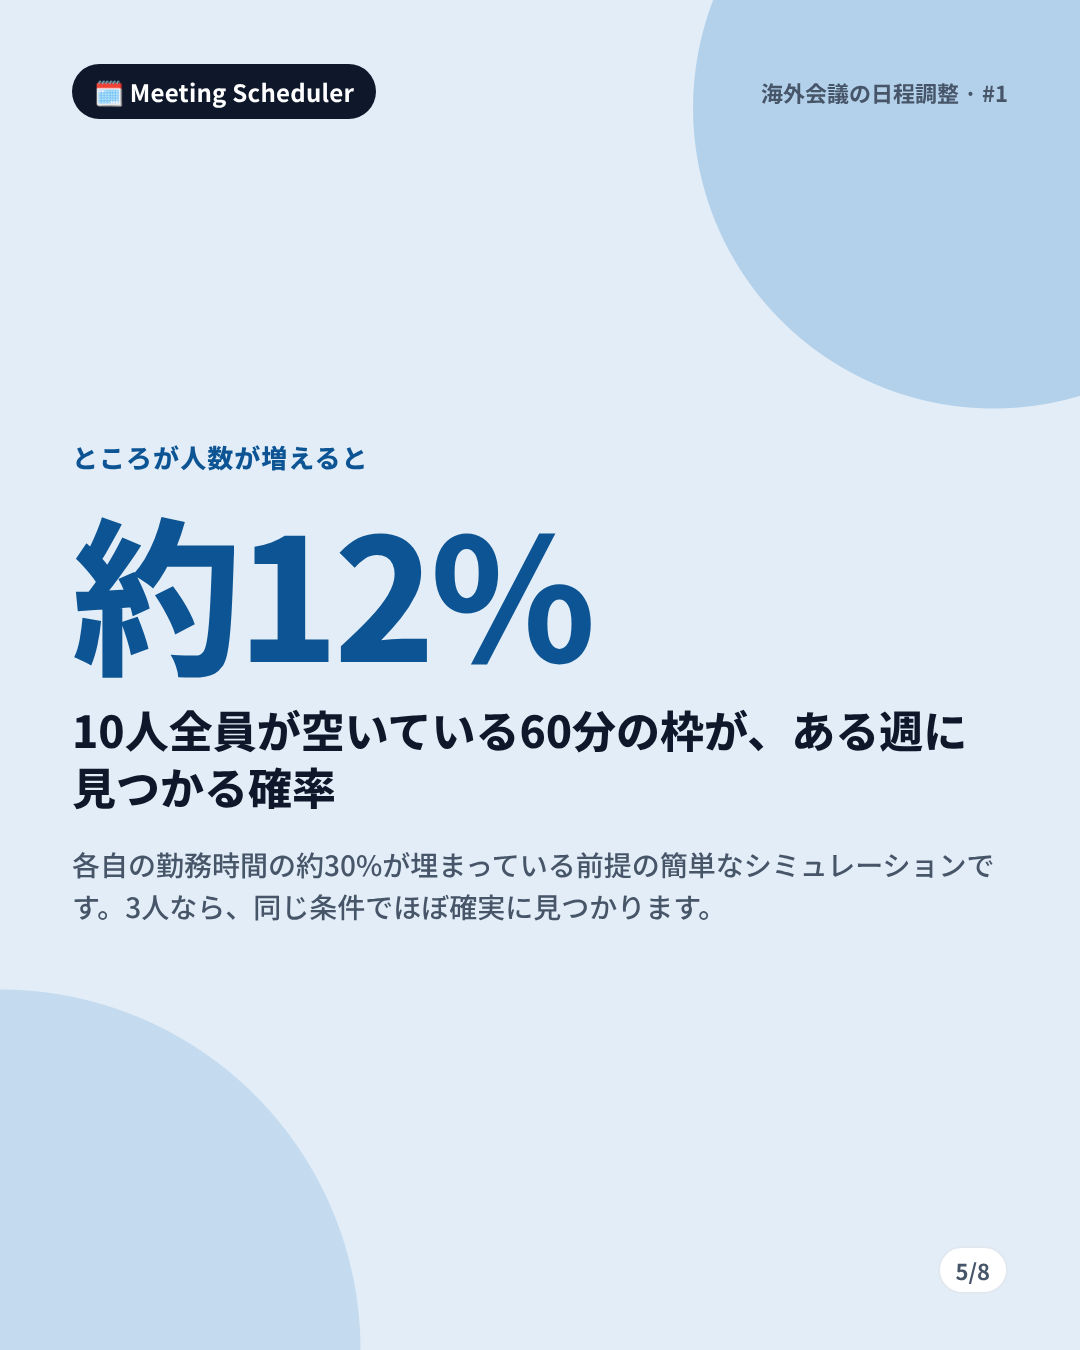
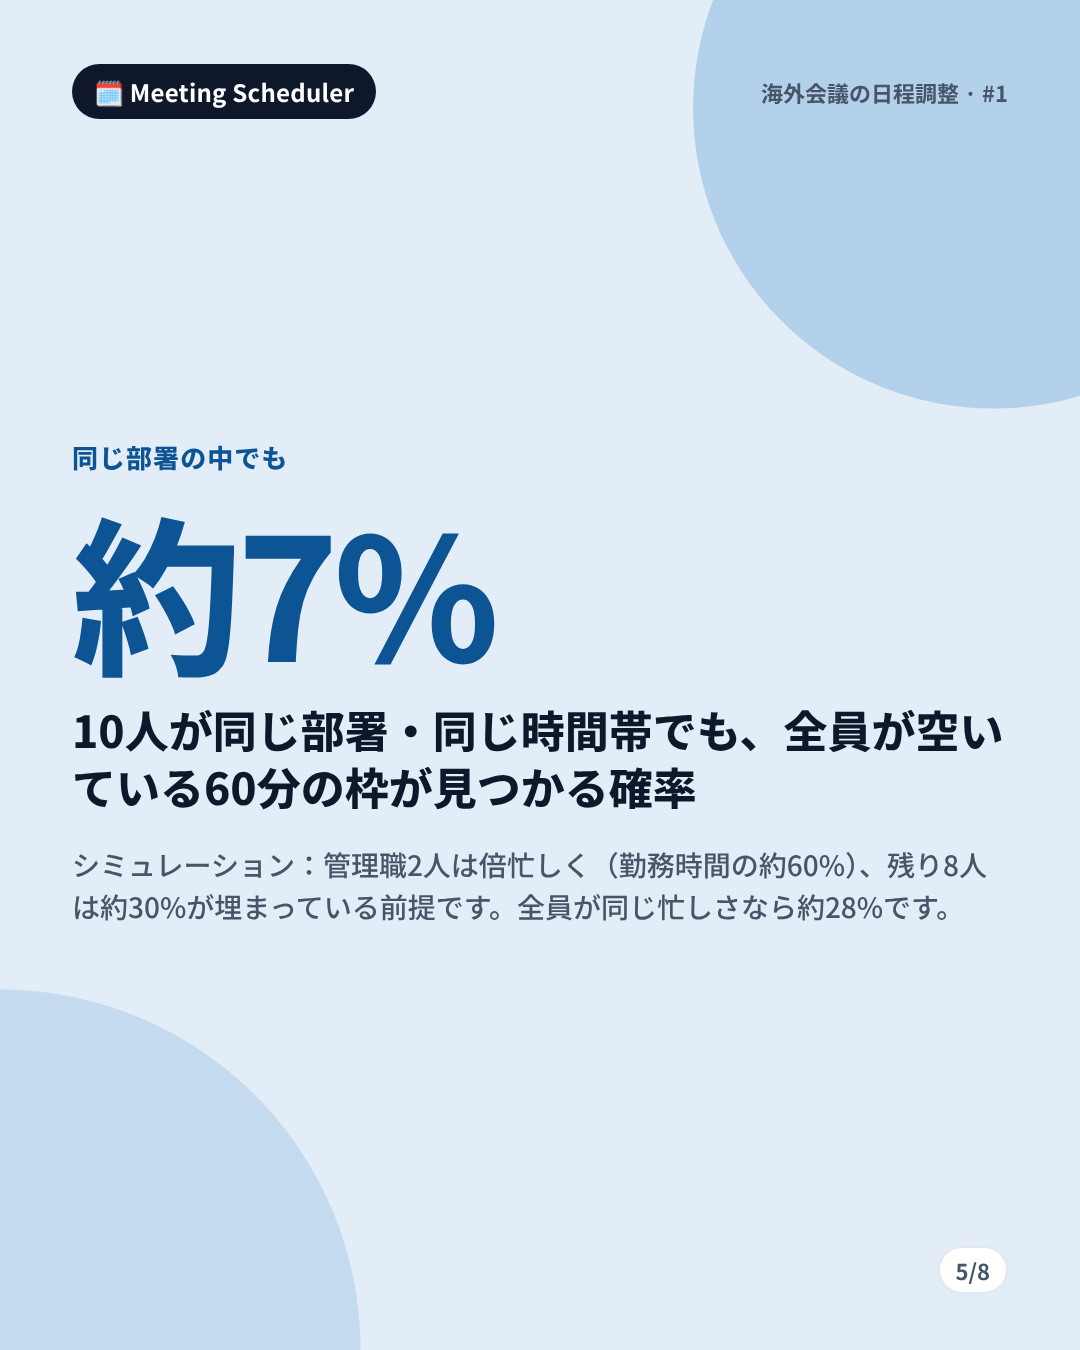
Add the manager-calendar pain to the Meeting Scheduler post and proposal
- Posts (vi/ja/en): a manager line in the chat, a new stat slide for one department in one time zone,
  and a pains item about managers booked in different slots; the 5.5-hour overlap is folded into the table note
  to stay at 8 slides. The headcount figure is now about 14% from a larger simulation.
- Measured (2000 runs, managers assumed busier): one country, 10 people 28% / 1 manager 15% / 2 managers 7%;
  three countries 14% / 3%. The brief records these as a simulation with its assumptions.
- Proposal: manager-heavy results in section 1, and a "blocker statistics" item so organisers can see who
  to ask to move a meeting.

Claude-Session: https://claude.ai/code/session_011t3UGBVaHDhMtDnGGj67V4

diff --git a/docs/proposals/meeting-scheduler-large-global-groups.md b/docs/proposals/meeting-scheduler-large-global-groups.md
@@ -19,16 +19,21 @@ Hai chuyện khác nhau, cần tách bạch:
 
 Khung chung của ba nước châu Á là 10:30-16:00 giờ Việt Nam, tức 09:00-14:30 ở Ấn Độ và 12:30-18:00 ở Hàn Quốc.
 
-**(b) Nhóm đông thì khung chung còn lại bao nhiêu?** Mô phỏng (người chia đều ba nước, một tuần, mỗi người bận 20/30/40% giờ làm
-bằng các cuộc họp ngẫu nhiên 30-90 phút, 300 lần chạy): xác suất có ít nhất một khung 60 phút mà **tất cả** cùng rảnh:
+**(b) Nhóm đông, và quản lý kín họp, thì khung chung còn lại bao nhiêu?** Mô phỏng một tuần, họp ngẫu nhiên 30-90 phút, người thường
+bận 30% giờ làm, "quản lý" **giả định** bận 60%, 2000 lần chạy. Xác suất có ít nhất một khung 60 phút mà **tất cả** cùng rảnh:
 
-| Số người | bận 20% | bận 30% | bận 40% |
+| Nhóm 10 người | Không có quản lý | 1 quản lý | 2 quản lý |
 |---|---|---|---|
-| 3 | 100% | 100% | 98% |
-| 10 | 73% | 12% | 2% |
-| 15 | 23% | 1% | 0% |
+| Cùng một nước, cùng một bộ phận (cùng giờ làm) | 28% | 15% | 7% |
+| Ba nước Việt Nam, Ấn Độ, Hàn Quốc | 14% | - | 3% |
 
-Lưu ý: giả định họp độc lập, không nghỉ trưa, không ngày lễ; lịch thật dồn cục hơn nên chỉ dùng để minh hoạ xu hướng.
+Nhóm 5 người cùng một nước: 100% khi không có quản lý, 89% khi có 1 quản lý. Chạy thô hơn (300 lần mỗi ô, người chia đều ba nước) cho thấy
+số người tăng thì khung chung sụp rất nhanh: ở mức bận 20/30/40%, nhóm 3 người 100/100/98%, nhóm 10 người 73/12/2%, nhóm 15 người 23/1/0%.
+
+Lưu ý: giả định họp độc lập, không nghỉ trưa, không ngày lễ, và "quản lý bận hơn" là giả định chứ chưa đo trên lịch thật; lịch thật dồn cục
+hơn nên chỉ dùng để minh hoạ xu hướng. Quan trọng nhất: **ngay cả khi không có múi giờ nào để đổ lỗi, chỉ riêng việc người này họp khung này,
+người kia họp khung khác đã đủ làm khung chung gần như biến mất.**
+
 Thuật toán không chậm (30 người x 60 ngày ≈ 0,3 giây), nên **tối ưu tốc độ không phải việc cần làm**; thiếu là cách xử lý khi
 không có khung hoàn hảo, và sự trung thực về những người tool không đọc được lịch.
 
@@ -42,6 +47,7 @@ không có khung hoàn hảo, và sự trung thực về những người tool k
   "không cùng tổ chức, không publish" là `unresolved` (quyết định 6, rủi ro R1) và lần kiểm chứng thật chỉ gồm đồng nghiệp cùng tổ chức.
   Tập đoàn có nhiều tenant thì đồng nghiệp ở tenant khác cũng có thể thành "không rõ". Việc hai tổ chức chia sẻ free/busy có đọc được
   hay không **chưa kiểm chứng** (tài liệu Microsoft tra được không nêu rõ).
+- Không phân biệt người bận nhiều (thường là quản lý) với người bận ít; không cho biết ai là người chặn nhiều khung nhất.
 - Người `unresolved` bị loại khỏi mẫu số, chỉ liệt kê riêng: khung "tốt nhất" có thể bỏ qua cả một nhóm người mà không ai để ý.
 - Giao diện chỉ hiện giờ **JST**; ô múi giờ chỉ có vài lựa chọn sẵn và offset tuỳ ý.
 - Lỗ hổng đo được (Việt Nam + Ấn Độ + Hàn Quốc + New York): ba gợi ý đầu đều là giờ làm việc của ba nước châu Á, còn người ở New York
@@ -54,6 +60,8 @@ không có khung hoàn hảo, và sự trung thực về những người tool k
 2. Nhãn người không rảnh ghi **lý do**: `busy` hay `out_of_hours` (dữ liệu đã có trong `_member_available`).
 3. Cảnh báo cố định khi có `unresolved`: "Khung này **bỏ qua N người** chưa đọc được lịch: ... (chỉ đọc được người cùng tổ chức)".
 4. Khi `best` rỗng, hiện **chẩn đoán**: số giờ chồng nhau mỗi ngày theo giờ làm đã khai, và ai là người kéo cửa sổ co lại.
+5. **Thống kê người chặn**: đếm, trên các khung ứng viên, mỗi người là người bận duy nhất bao nhiêu lần (thường là quản lý kín họp) và liệt kê
+   các khung "chỉ cần 1 người dời họp" kèm tên người đó, để chủ cuộc họp biết nên xin ai nhường. Thuần Python từ chuỗi free/busy đã có, không cần chủ đề cuộc họp.
 
 ### P1 - Điểm thay cho nhị phân (lõi của đề xuất)
 1. Mỗi member thêm tuỳ chọn (mặc định = hành vi hiện tại): `role: required|optional`, `core: 09:00-18:00`,
@@ -84,9 +92,10 @@ Ngày lễ: **không gọi API ngoài** - người dùng nhập ngày nghỉ, ho
 
 1. Test cố định các kịch bản ở mục 1(a); kết quả `best/fallback` đúng bảng.
 2. Việt Nam + Ấn Độ + Hàn Quốc (`required`) + New York (`optional`): khung đầu **không** đặt người New York trong giờ bị cấm (đêm).
-3. `pain_by_member` khác 0 chỉ với người ở giờ stretch; người ở giờ core luôn bằng 0.
-4. Hồi quy: mọi test hiện có của `test_meeting_scheduler.py` pass **không sửa**; `grep -rn "\.Send("` rỗng; `import meetingscheduler` chạy không cần pywin32.
-5. Benchmark: 30 người x 60 ngày vẫn dưới 2 giây (hiện 0,3 giây).
+3. Khung gần đúng có đúng một người bận được xếp hạng riêng và nêu tên người đó; thống kê người chặn đúng trên dữ liệu giả lập có một người bận dày.
+4. `pain_by_member` khác 0 chỉ với người ở giờ stretch; người ở giờ core luôn bằng 0.
+5. Hồi quy: mọi test hiện có của `test_meeting_scheduler.py` pass **không sửa**; `grep -rn "\.Send("` rỗng; `import meetingscheduler` chạy không cần pywin32.
+6. Benchmark: 30 người x 60 ngày vẫn dưới 2 giây (hiện 0,3 giây).
 
 ## 6. Câu hỏi cần chủ repo quyết
 
